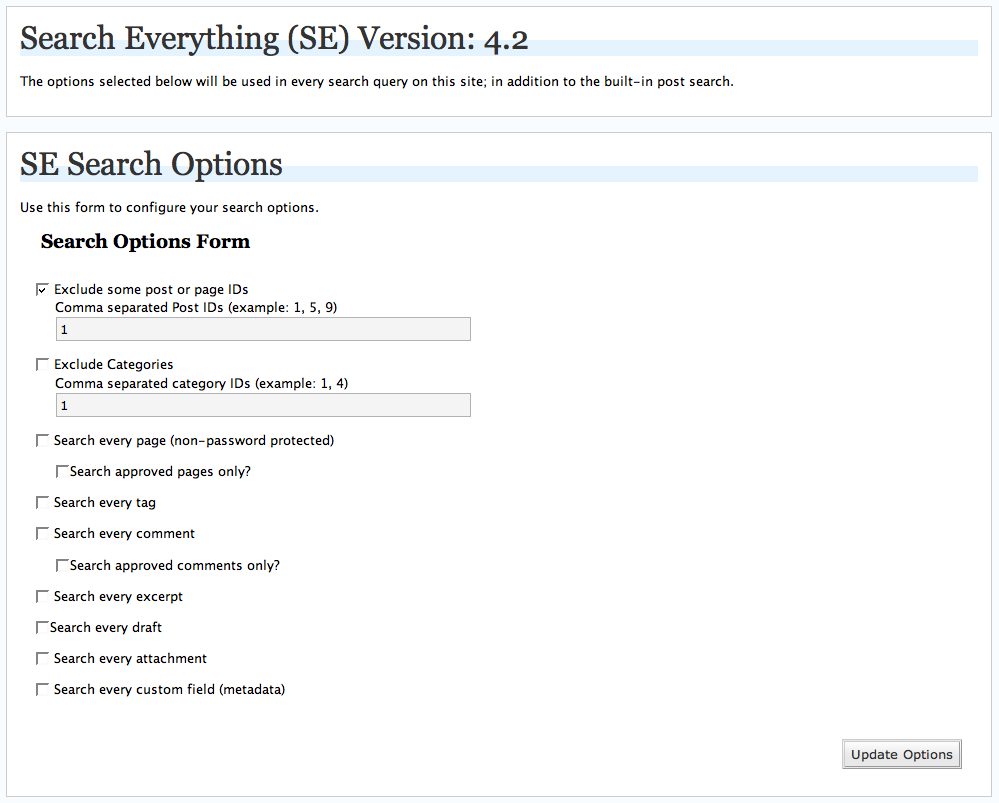
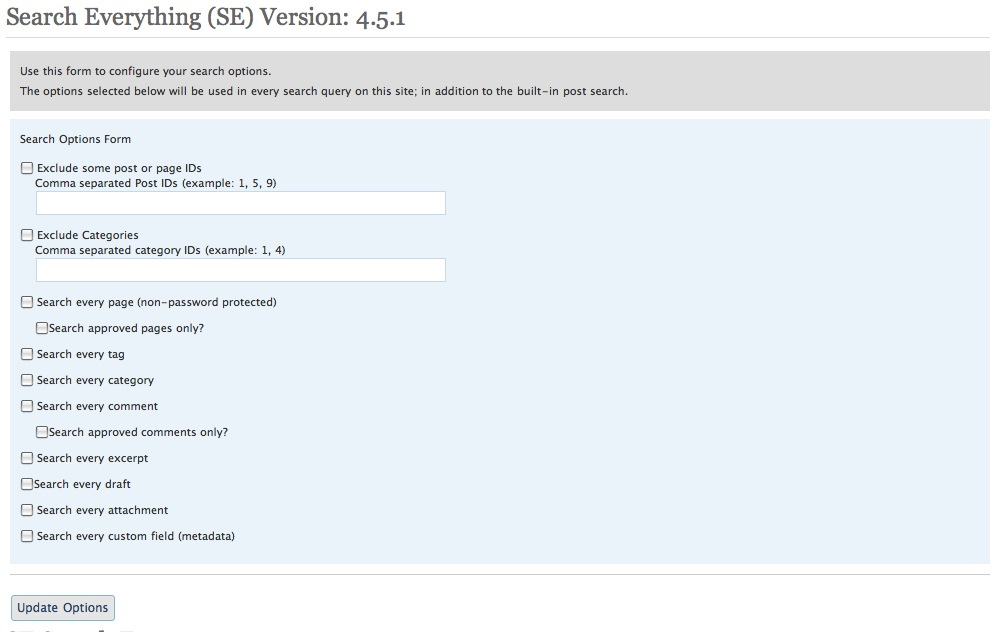
Excerpt Fix and Admin Style Refresh
git-svn-id: http://svn.wp-plugins.org/search-everything/trunk@51406 b8457f37-d9ea-0310-8a92-e5e31aec5664

Changed region(s): [[0.0, 0.0, 0.993, 0.8718], [0.8378, 0.9019, 0.962, 0.962], [0.0, 0.932, 0.1241, 0.9921]]

diff --git a/SE-Admin.php b/SE-Admin.php
@@ -2,7 +2,7 @@
 
 Class SearchEverythingAdmin {
 
-	var $version = '4.5';
+	var $version = '4.6';
 
 	function SearchEverythingAdmin() {
 
@@ -55,115 +55,134 @@ Class SearchEverythingAdmin {
 
 		?>
 
-		<div class="wrap" id="SE4_options_panel">
+		<div class="wrap">
 			<h2>Search Everything (SE) Version: <?php echo $this->version; ?></h2>
-			<p><?php _e('The options selected below will be used in every search query on this site; in addition to the built-in post search.','SearchEverything'); ?></p>
+
+		   	<table class="form-table">
+				<tr valign="top">
+					<td colspan="4" bgcolor="#DDD"><?php _e('Use this form to configure your search options.', 'SearchEverything'); ?><br />
+					<?php _e('The options selected below will be used in every search query on this site; in addition to the built-in post search.','SearchEverything'); ?></td>
+				</tr>
+				<tr>
+					<td>
+						<form method="post">
+		      				<legend><?php _e('Search Options Form', 'SearchEverything'); ?></legend>
+			        		<p><input type="checkbox" id="exclude_posts" name="exclude_posts" value="true" <?php if($options['SE4_exclude_posts'] == 'true') { echo 'checked="true"'; } ?> />
+			       			<label for="exclude_posts"><?php _e('Exclude some post or page IDs','SearchEverything'); ?></label><br />
+			       			&nbsp;&nbsp;&nbsp;&nbsp;&nbsp;<label for="exclude_posts_list" class="SE_text_label"><?php _e('Comma separated Post IDs (example: 1, 5, 9)','SearchEverything'); ?></label><br />
+			        		&nbsp;&nbsp;&nbsp;&nbsp;&nbsp;<input type="text" size="50" class="SE_text_input" id="exclude_posts_list" name="exclude_posts_list" value="<?php echo $options['SE4_exclude_posts_list'];?>" /></p>
+
+			        		<p><input type="checkbox" id="exclude_categories" name="exclude_categories"	value="true" <?php if($options['SE4_exclude_categories'] == 'true') { echo 'checked="true"'; } ?> />
+			       			<label for="exclude_categories"><?php _e('Exclude Categories','SearchEverything'); ?></label><br />
+			       			&nbsp;&nbsp;&nbsp;&nbsp;&nbsp;<label for="exclude_categories_list" class="SE_text_label"><?php _e('Comma separated category IDs (example: 1, 4)','SearchEverything'); ?></label><br />
+			         		&nbsp;&nbsp;&nbsp;&nbsp;&nbsp;<input type="text" size="50" class="SE_text_input" id="exclude_categories_list" name="exclude_categories_list" value="<?php echo $options['SE4_exclude_categories_list'];?>" /></p>
+
+		         			<p><input type="checkbox" id="search_pages" name="search_pages" value="true" <?php if($options['SE4_use_page_search'] == 'true') { echo 'checked="true"'; } ?>  />
+		       				<label for="search_pages"><?php _e('Search every page (non-password protected)','SearchEverything'); ?></label></p>
+							<p>&nbsp;&nbsp;&nbsp;&nbsp;&nbsp;<input type="checkbox" class="SE_text_input" id="appvd_pages" name="appvd_pages" value="true"  <?php if($options['SE4_approved_pages_only'] == 'true') { echo 'checked="true"'; } ?>
+		      				<label for="appvd_pages"><?php _e('Search approved pages only?','SearchEverything'); ?></label></p>
+
+							<?php
+							// Show tags only for WP 2.3+
+							If ($wp_version >= '2.3') { ?>
+								<p><input type="checkbox" id="search_tags" name="search_tags" value="true" <?php if($options['SE4_use_tag_search'] == 'true') { echo 'checked="true"'; } ?> />
+								<label for="search_tags"><?php _e('Search every tag','SearchEverything'); ?></label></p>
+							<?php } ?>
+
+							<?php
+							// Show categories only for WP 2.5+
+							If ($wp_version >= '2.5') { ?>
+								<p><input type="checkbox" id="search_categories" name="search_categories" value="true"  <?php if($options['SE4_use_category_search'] == 'true') { echo 'checked="true"'; } ?> />
+								<label for="search_categories"><?php _e('Search every category','SearchEverything'); ?></label></p>
+							<?php } ?>
+
+		         			<p><input type="checkbox" id="search_comments" name="search_comments" value="true" <?php if($options['SE4_use_comment_search'] == 'true') { echo 'checked="true"'; } ?> />
+		       				<label for="search_comments"><?php _e('Search every comment','SearchEverything'); ?></label></p>
+
+				 			<p>&nbsp;&nbsp;&nbsp;&nbsp;&nbsp;<input type="checkbox" class="SE_text_input" id="appvd_comments" name="appvd_comments" value="true"  <?php if($options['SE4_approved_comments_only'] == 'true') { echo 'checked="true"'; } ?>
+		       				<label for="appvd_comments"><?php _e('Search approved comments only?','SearchEverything'); ?></label></p>
+
+			         		<p><input type="checkbox" id="search_excerpt" name="search_excerpt" value="true"  <?php if($options['SE4_use_excerpt_search'] == 'true') { echo 'checked="true"'; } ?> />
+			       			<label for="search_excerpt"><?php _e('Search every excerpt','SearchEverything'); ?></label></p>
+	
+			         		<p><input type="checkbox" id="search_drafts" name="search_drafts" value="true"  <?php if($options['SE4_use_draft_search'] == 'true') { echo 'checked="true"'; } ?>
+			       			<label for="search_drafts"><?php _e('Search every draft','SearchEverything'); ?></label></p>
+	
+			         		<p><input type="checkbox" id="search_attachments" name="search_attachments" value="true"  <?php if($options['SE4_use_attachment_search'] == 'true') { echo 'checked="true"'; } ?> />
+			       			<label for="search_attachments"><?php _e('Search every attachment','SearchEverything'); ?></label></p>
+	
+			         		<p><input type="checkbox" id="search_metadata" name="search_metadata" value="true"  <?php if($options['SE4_use_metadata_search'] == 'true') { echo 'checked="true"'; } ?> />
+			       			<label for="search_metadata"><?php _e('Search every custom field (metadata)','SearchEverything'); ?></label></p>
+				    	</form>
+			    	</td>
+			    </tr>
+		    </table>
+			<div class="submit">
+				<input type="hidden" name="action" value="save" />
+				<input type="submit" value="<?php _e('Update Options', 'SearchEverything') ?>" />
+			</div>
 		</div>
-
-		<div class="wrap SE4">
-			<h2><?php _e('SE Search Options', 'SearchEverything'); ?></h2>
-			<p><?php _e('Use this form to configure your search options.', 'SearchEverything'); ?></p>
-			<form method="post">
-		    		<fieldset class="options">
-		      			<legend><?php _e('Search Options Form', 'SearchEverything'); ?></legend>
-		        		<p><input type="checkbox" id="exclude_posts" name="exclude_posts" value="true"  <?php if($options['SE4_exclude_posts'] == 'true') { echo 'checked="true"'; } ?> />
-		       			<label for="exclude_posts"><?php _e('Exclude some post or page IDs','SearchEverything'); ?></label><br />
-		       			&nbsp;&nbsp;&nbsp;&nbsp;&nbsp;<label for="exclude_posts_list" class="SE_text_label"><?php _e('Comma separated Post IDs (example: 1, 5, 9)','SearchEverything'); ?></label><br />
-		        		&nbsp;&nbsp;&nbsp;&nbsp;&nbsp;<input type="text" size="50" class="SE_text_input" id="exclude_posts_list" name="exclude_posts_list" value="<?php echo $options['SE4_exclude_posts_list'];?>" /></p>
-
-		        		<p><input type="checkbox" id="exclude_categories" name="exclude_categories"
-					value="true"  <?php if($options['SE4_exclude_categories'] == 'true') { echo 'checked="true"'; } ?> />
-		       			<label for="exclude_categories"><?php _e('Exclude Categories','SearchEverything'); ?></label><br />
-		       			&nbsp;&nbsp;&nbsp;&nbsp;&nbsp;<label for="exclude_categories_list" class="SE_text_label"><?php _e('Comma separated category IDs (example: 1, 4)','SearchEverything'); ?></label><br />
-		         		&nbsp;&nbsp;&nbsp;&nbsp;&nbsp;<input type="text" size="50" class="SE_text_input" id="exclude_categories_list" name="exclude_categories_list" value="<?php echo $options['SE4_exclude_categories_list'];?>" /></p>
-
-		         		<p><input type="checkbox" id="search_pages" name="search_pages"
-					value="true"  <?php if($options['SE4_use_page_search'] == 'true') { echo 'checked="true"'; } ?>  />
-		       			<label for="search_pages"><?php _e('Search every page (non-password protected)','SearchEverything'); ?></label></p>
-					<p>&nbsp;&nbsp;&nbsp;&nbsp;&nbsp;<input type="checkbox" class="SE_text_input" id="appvd_pages" name="appvd_pages" value="true"  <?php if($options['SE4_approved_pages_only'] == 'true') { echo 'checked="true"'; } ?>
-		      			<label for="appvd_pages"><?php _e('Search approved pages only?','SearchEverything'); ?></label></p>
-
-<?php
-// Show tags only for WP 2.3+
-If ($wp_version >= '2.3') { ?>
-					<p><input type="checkbox" id="search_tags" name="search_tags" value="true"  <?php if($options['SE4_use_tag_search'] == 'true') { echo 'checked="true"'; } ?> />
-						<label for="search_tags"><?php _e('Search every tag','SearchEverything'); ?></label></p>
-<?php } ?>
-
-<?php
-// Show categories only for WP 2.5+
-If ($wp_version >= '2.5') { ?>
-					<p><input type="checkbox" id="search_categories" name="search_categories" value="true"  <?php if($options['SE4_use_category_search'] == 'true') { echo 'checked="true"'; } ?> />
-						<label for="search_categories"><?php _e('Search every category','SearchEverything'); ?></label></p>
-<?php } ?>
-
-		         		<p><input type="checkbox" id="search_comments" name="search_comments"
-					value="true"  <?php if($options['SE4_use_comment_search'] == 'true') { echo 'checked="true"'; } ?> />
-		       			<label for="search_comments"><?php _e('Search every comment','SearchEverything'); ?></label></p>
-
-				 	<p>&nbsp;&nbsp;&nbsp;&nbsp;&nbsp;<input type="checkbox" class="SE_text_input" id="appvd_comments" name="appvd_comments" value="true"  <?php if($options['SE4_approved_comments_only'] == 'true') { echo 'checked="true"'; } ?>
-		       			<label for="appvd_comments"><?php _e('Search approved comments only?','SearchEverything'); ?></label></p>
-
-		         		<p><input type="checkbox" id="search_excerpt" name="search_excerpt" value="true"  <?php if($options['SE4_use_excerpt_search'] == 'true') { echo 'checked="true"'; } ?> />
-		       			<label for="search_excerpt"><?php _e('Search every excerpt','SearchEverything'); ?></label></p>
-
-		         		<p><input type="checkbox" id="search_drafts" name="search_drafts" value="true"  <?php if($options['SE4_use_draft_search'] == 'true') { echo 'checked="true"'; } ?>
-		       			<label for="search_drafts"><?php _e('Search every draft','SearchEverything'); ?></label></p>
-
-		         		<p><input type="checkbox" id="search_attachments" name="search_attachments" value="true"  <?php if($options['SE4_use_attachment_search'] == 'true') { echo 'checked="true"'; } ?> />
-		       			<label for="search_attachments"><?php _e('Search every attachment','SearchEverything'); ?></label></p>
-
-		         		<p><input type="checkbox" id="search_metadata" name="search_metadata" value="true"  <?php if($options['SE4_use_metadata_search'] == 'true') { echo 'checked="true"'; } ?> />
-		       			<label for="search_metadata"><?php _e('Search every custom field (metadata)','SearchEverything'); ?></label></p>
-
-		   		</fieldset>
-				<fieldset class="options">
-					<div class="submit">
-						<input type="hidden" name="action" value="save" />
-						<input type="submit" value="<?php _e('Update Options', 'SearchEverything') ?>" />
-					</div>
-				</fieldset>
-		    	</form>
-		</div>
-		<div class="wrap SE4">
+	    	
+		<div class="wrap">
 			<h2><?php _e('SE Search Form', 'SearchEverything'); ?></h2>
-			<p><?php _e('Use this search form to run a live search test.', 'SearchEverything'); ?></p>
-
-		      	<fieldset>
-		       		<legend><?php _e('Site Search', 'SearchEverything'); ?></legend>
-		        	<form method="get" id="searchform" action="<?php bloginfo('home'); ?>"><p class="srch submit">
-					<label for="s"><?php _e('Enter search terms', 'SearchEverything'); ?><br /></label>
-		          		<input type="text" class="srch-txt" value="<?php echo wp_specialchars($s, 1); ?>" name="s" id="s" />
-				  	<input type="submit" class="SE4_btn" id="searchsubmit" value="<?php _e('Run Test Search', 'SearchEverything'); ?>" /></p>
-		      		</form>
-			</fieldset>
+		   	<table class="form-table">
+				<tr valign="top">
+					<td colspan="4" bgcolor="#DDD"><?php _e('Use this search form to run a live search test.', 'SearchEverything'); ?></td>
+				</tr>
+				<tr>
+					<td>
+			       		<legend><?php _e('Site Search', 'SearchEverything'); ?></legend>
+			        	<form method="get" id="searchform" action="<?php bloginfo('home'); ?>"><p class="srch submit">
+							<label for="s"><?php _e('Enter search terms', 'SearchEverything'); ?><br /></label>
+			          		<input type="text" class="srch-txt" value="<?php echo wp_specialchars($s, 1); ?>" name="s" id="s" size="30" />
+						  	<input type="submit" class="SE4_btn" id="searchsubmit" value="<?php _e('Run Test Search', 'SearchEverything'); ?>" /></p>
+			      		</form>
+					</td>
+				</tr>
+			</table>
 		</div>
+		
 		<div class="wrap">
 			<h2>SE Project Information</h2>
-		       	<p>As of 2.5 I'm taking a hiatus from SE development; however I'm still accepting and committing feature updates and fixes from the community. <br/> You should not fret, the development since Version One has primarily come from the WordPress community and as a Search Everything user myself, I&#8217;m grateful for their dedicated and continued support:</p>
-		        <ul class="SE_lists">
-					<li><a href="http://chrismeller.com/">Chris Meller</a></li>
-					<li>jdleung</li>
-					<li>Alakhnor</li>
-					<li><a href="http://kinrowan.net/">Cori Schlegel</a></li>
-					<li><a href="http://green-beast.com/">Mike Cherim</a></li>
-		        	<li><a href="http://blog.saddey.net/">Saddy</a></li>
-		        	<li><a href="http://www.reaper-x.com/">Reaper</a></li>
-					<li><a href="http://beyn.org/">Barış Ünver</a> (localization support)</li>
-					<li><a href="http://www.alohastone.com">alohastone</a> (localization support)</li>
-					<li><a href="http://www.fratelliditalia.eu">Domiziano Galia</a></li>
-		        	<li>Uli Iserloh</li>
-
-		        </ul>
-			<p>If you&#8217;d like to contribute there&#8217;s a lot to do:</p>
-		        <ul class="SE_lists">
-				<li>More meta data functions.</li>
-				<li>Search Bookmarks.</li>
-				<li>&#8230;anything else you want to add.</li>
-		        </ul>
-		        <br/><p>The current project home is at <a href="http://scatter3d.com/">scatter3d.com</a>. If you want to contribute <a href="mailto:dancameron+se@gmail.com">e-mail me</a> your modifications.</p>
-			<p class="sig">Respectfully,<br />
-			<a href="http://dancameron.org/">Dan Cameron</a></p>
+		   	<table class="form-table">
+				<tr valign="top">
+					<td colspan="4" bgcolor="#DDD">
+		       			As of 2.5 I'm taking a hiatus from SE development; however I'm still accepting and committing feature updates and fixes from the community.<br/>
+		       			You should not fret, the development since Version One has primarily come from the WordPress community and as a Search Everything user myself, I&#8217;m grateful for their dedicated and continued support:
+				        <ul class="SE_lists">
+							<li><a href="http://chrismeller.com/">Chris Meller</a></li>
+							<li>jdleung</li>
+							<li>Alakhnor</li>
+							<li><a href="http://kinrowan.net/">Cori Schlegel</a></li>
+							<li><a href="http://green-beast.com/">Mike Cherim</a></li>
+				        	<li><a href="http://blog.saddey.net/">Saddy</a></li>
+				        	<li><a href="http://www.reaper-x.com/">Reaper</a></li>
+							<li><a href="http://beyn.org/">Barış Ünver</a> (localization support)</li>
+							<li><a href="http://www.alohastone.com">alohastone</a> (localization support)</li>
+							<li><a href="http://www.fratelliditalia.eu">Domiziano Galia</a></li>
+							<li><a href="http://meandmymac.net">Arnan de Gans</a> (Options panel)</li>
+				        	<li>Uli Iserloh</li>
+				        </ul>
+					</td>
+				</tr>
+				<tr>
+					<td bgcolor="#DDD">
+						If you&#8217;d like to contribute there&#8217;s a lot to do:
+				        <ul class="SE_lists">
+							<li>More meta data functions.</li>
+							<li>Search Bookmarks.</li>
+							<li>&#8230;anything else you want to add.</li>
+				        </ul>
+					</td>
+				</tr>
+				<tr>
+					<td bgcolor="#DDD">
+		     			The current project home is at <a href="http://scatter3d.com/">scatter3d.com</a>. If you want to contribute <a href="mailto:dancameron+se@gmail.com">e-mail me</a> your modifications.<br />
+		     			Respectfully,<br />
+						<a href="http://dancameron.org/">Dan Cameron</a>
+					</td>
+				</tr>
+			</table>
 		</div>
 
 		<?php

diff --git a/search_everything.php b/search_everything.php
@@ -3,7 +3,7 @@
 Plugin Name: Search Everything
 Plugin URI: http://dancameron.org/wordpress/
 Description: Adds search functionality with little setup. Including options to search pages, excerpts, attachments, drafts, comments, tags and custom fields (metadata). Also offers the ability to exclude specific pages and posts. Does not search password-protected content.
-Version: 4.5
+Version: 4.6
 Author: Dan Cameron
 Author URI: http://dancameron.org/
 */
@@ -153,21 +153,22 @@ Class SearchEverything {
 		return $where;
 	}
 
-	//search excerpts provided by Dennis Turner
+	//search excerpts provided by Dennis Turner, fixed by GvA
 	function SE4_search_excerpt($where) {
 		global $wp_query;
 		if (!empty($wp_query->query_vars['s'])) {
-			$where = str_replace('"', '\'', $where);
-			$where = str_replace(' OR (post_content LIKE \'%' .
-			$wp_query->query_vars['s'] . '%\'', ' OR (post_content LIKE \'%' .
-			$wp_query->query_vars['s'] . '%\') OR (post_excerpt LIKE \'%' .
-			$wp_query->query_vars['s'] . '%\'', $where);
-	   	}
+				$where = str_replace('"', '\'', $where);
+				$where = str_replace(' OR (wp_posts.post_content LIKE \'%' . 
+				$wp_query->query_vars['s'] . '%\'', ' OR (wp_posts.post_content LIKE \'%' . 
+				$wp_query->query_vars['s'] . '%\') OR (wp_posts.post_excerpt LIKE \'%' . 
+				$wp_query->query_vars['s'] . '%\'', $where);
+		}
 
 		$this->SE4_log("excerpts where: ".$where);
 		return $where;
 	}
-
+	
+	
 	//search drafts
 	function SE4_search_draft_posts($where) {
 		global $wp_query;
